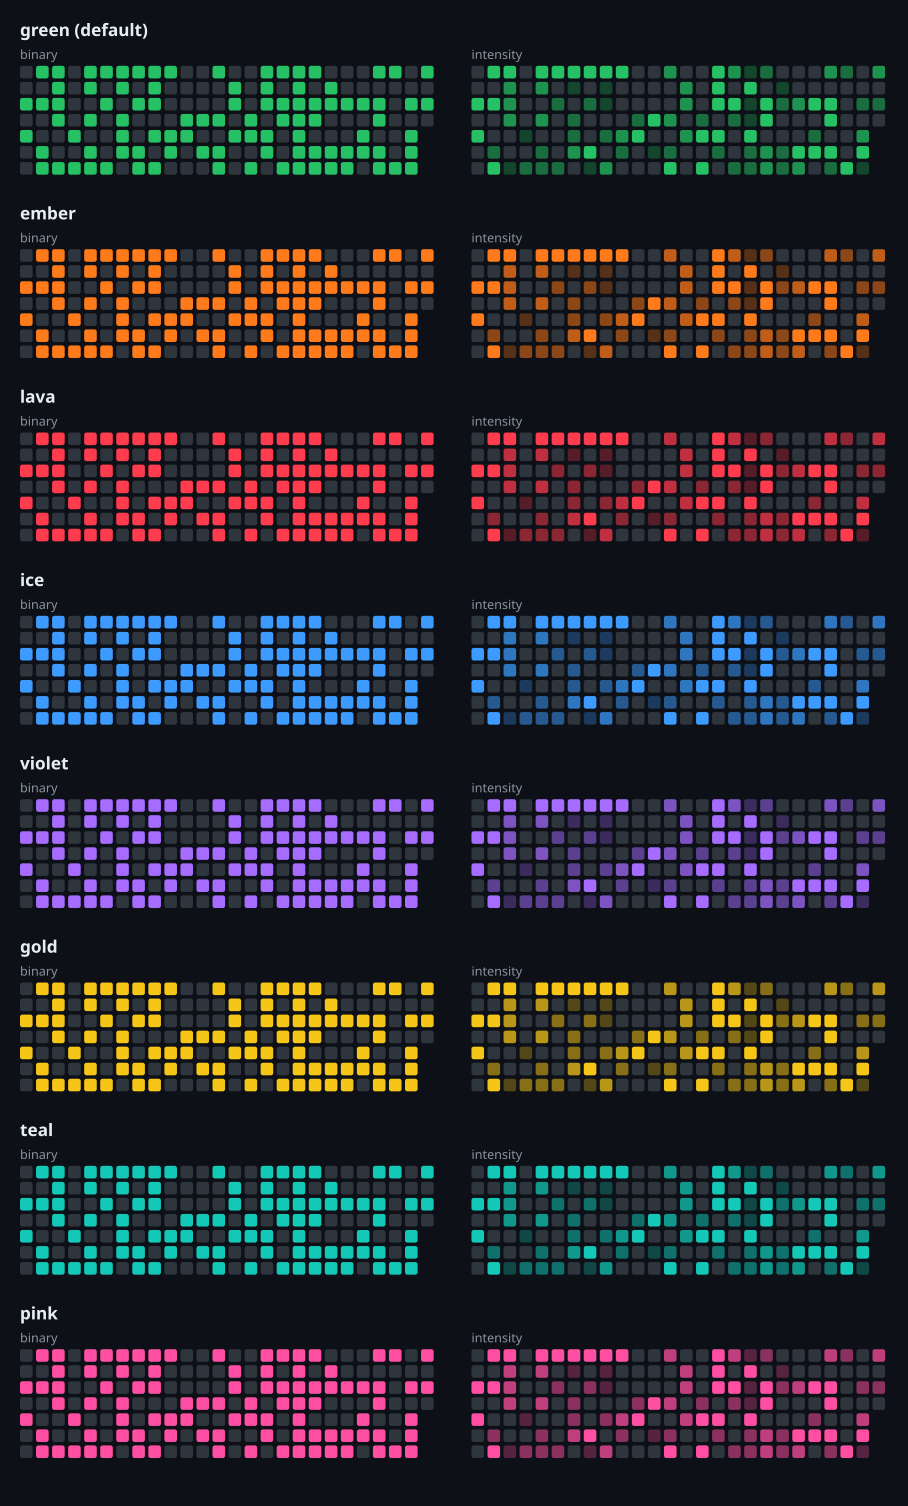
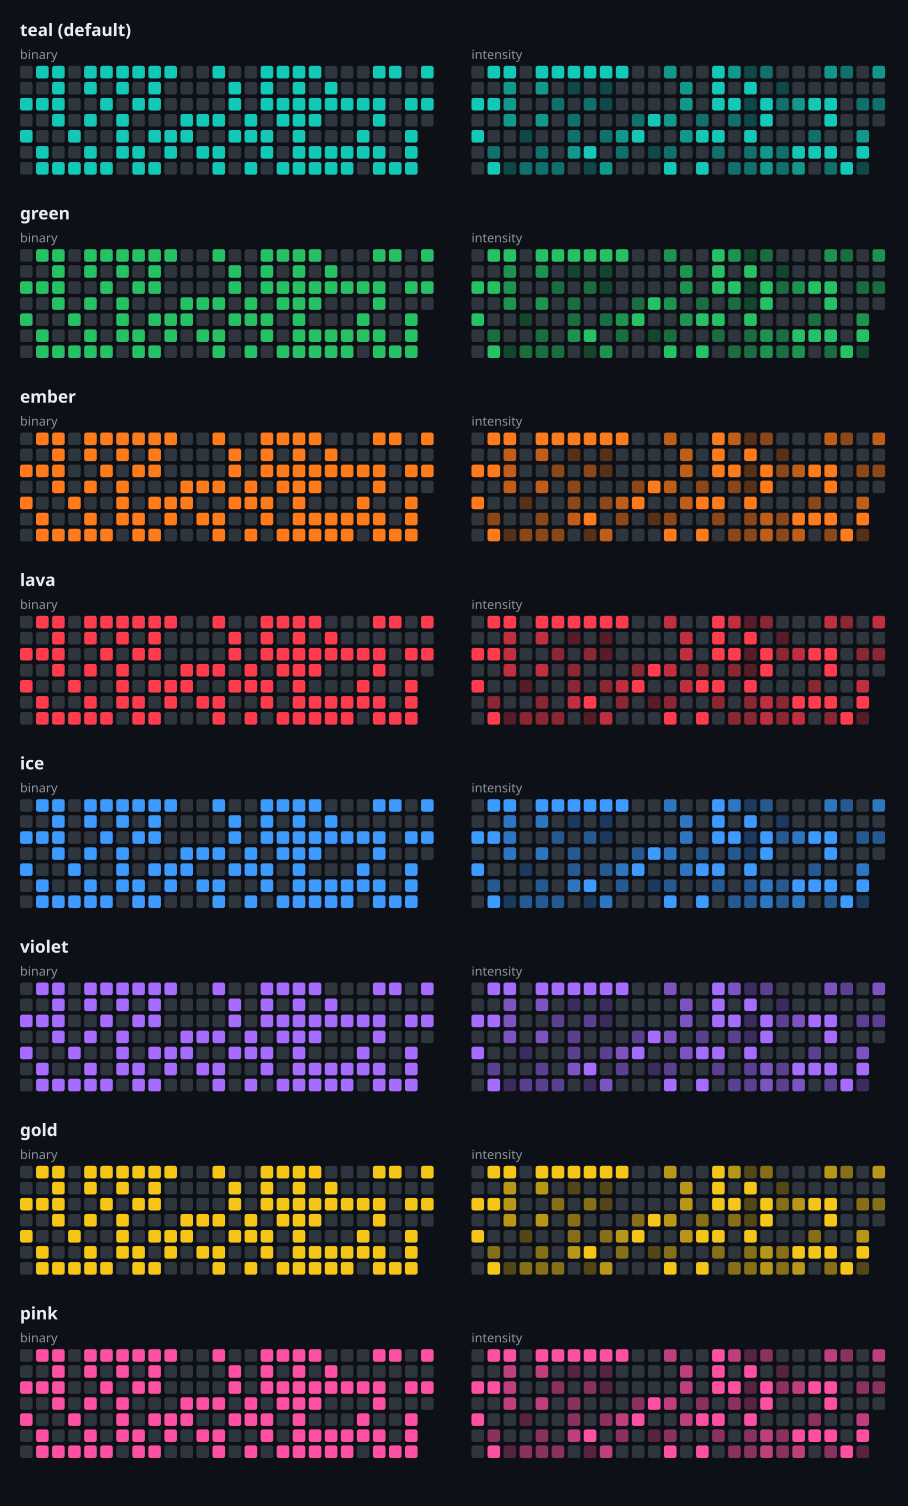
feat: teal is the default accent

diff --git a/widget/grindgrid.js b/widget/grindgrid.js
@@ -15,7 +15,7 @@ const DEFAULT_PARAM = "" // e.g. "http://192.0.2.10:8080;binary"
 
 const [base, themeArg, accentArg] = (args.widgetParameter || DEFAULT_PARAM).split(";").map(s => s.trim())
 const theme = ["binary", "intensity", "sports"].includes(themeArg) ? themeArg : "binary"
-const accent = ACCENTS[accentArg] || ACCENTS.green
+const accent = ACCENTS[accentArg] || ACCENTS.teal
 const family = config.widgetFamily || "medium"
 
 const fm = FileManager.local()

diff --git a/grindgrid/web.py b/grindgrid/web.py
@@ -16,6 +16,7 @@ THEMES = ("binary", "intensity", "sports")
 EMPTY = "#9aa4b140"
 ACCENTS = {"green": "#26c165", "ember": "#ff7a1a", "lava": "#ff3b4e", "ice": "#3d9bff",
            "violet": "#a66bff", "gold": "#f5c518", "teal": "#14c8b8", "pink": "#ff4fa3"}
+DEFAULT_ACCENT = "teal"
 ALPHA = ["4d", "85", "bb", ""]  # intensity = alpha ramp of the accent; reads right on light and dark
 SPORT_COLORS = {"run": "#ff6b3d", "ride": "#3d8bff", "strength": "#a35cff",
                 "swim": "#16c1c8", "walk": "#7cc35a", "other": "#e5b52b"}
@@ -24,7 +25,7 @@ LABELS = {"run": "bieganie", "ride": "rower", "strength": "siła", "swim": "pły
 CELL, GAP = 12, 3
 
 
-def day_color(day: dict, theme: str, accent: str = "green") -> str | None:
+def day_color(day: dict, theme: str, accent: str = DEFAULT_ACCENT) -> str | None:
     if day["future"]:
         return None
     if day["level"] == 0:
@@ -36,7 +37,7 @@ def day_color(day: dict, theme: str, accent: str = "green") -> str | None:
     return ACCENTS[accent]
 
 
-def render_svg(days: list[dict], theme: str, accent: str = "green") -> str:
+def render_svg(days: list[dict], theme: str, accent: str = DEFAULT_ACCENT) -> str:
     step = CELL + GAP
     weeks = (len(days) + 6) // 7
     cells = []
@@ -75,7 +76,7 @@ nav a{{margin-right:1rem;color:inherit}} nav a.on{{font-weight:700}}
 <p>{active} dni z treningiem w ostatnich 12 miesiącach</p></html>"""
 
 
-def page(days: list[dict], theme: str, accent: str = "green") -> str:
+def page(days: list[dict], theme: str, accent: str = DEFAULT_ACCENT) -> str:
     link = lambda t, a, label, on: f'<a href="/?theme={t}&accent={a}"{" class=on" if on else ""}>{label}</a>'
     nav = "".join(link(t, accent, t, t == theme) for t in THEMES)
     accents = "".join(link(theme, a, f'<i style="color:{c}">●</i> {a}', a == accent) for a, c in ACCENTS.items())
@@ -106,7 +107,7 @@ class Handler(BaseHTTPRequestHandler):
             days = app_days(db.connect(db_path()), os.environ.get("TZ", "Europe/Warsaw"))
             if url.path == "/":
                 theme = q.get("theme") if q.get("theme") in THEMES else "binary"
-                accent = q.get("accent") if q.get("accent") in ACCENTS else "green"
+                accent = q.get("accent") if q.get("accent") in ACCENTS else DEFAULT_ACCENT
                 return self.send(200, page(days, theme, accent))
             body = {"days": days, "generated": datetime.now(timezone.utc).isoformat()}
             return self.send(200, json.dumps(body), "application/json")

diff --git a/tests/test_web.py b/tests/test_web.py
@@ -79,9 +79,10 @@ class AccentPageTest(WebTest):
         self.assertIn(web.ACCENTS["ember"], body)
         self.assertNotIn('fill="' + web.ACCENTS["green"] + '"', body)  # grid cells, not the picker
 
-    def test_unknown_accent_falls_back_to_green(self):
+    def test_default_and_unknown_accent_are_teal(self):
         sync.main(["--demo"])
-        self.assertIn(web.ACCENTS["green"], self.get("/?accent=nope")[1])
+        for path in ("/", "/?accent=nope"):
+            self.assertIn('fill="' + web.ACCENTS["teal"] + '"', self.get(path)[1])
 
 
 if __name__ == "__main__":

diff --git a/README.md b/README.md
@@ -18,8 +18,8 @@ home-screen widget shows it at a glance.
 
 ### Accent colours
 
-`binary` and `intensity` come in eight accents: `green` (default), `ember`, `lava`, `ice`, `violet`,
-`gold`, `teal` and `pink`. In the browser use `/?theme=intensity&accent=ember`. In the widget add the
+`binary` and `intensity` come in eight accents: `teal` (default), `green`, `ember`, `lava`, `ice`,
+`violet`, `gold` and `pink`. In the browser use `/?theme=intensity&accent=ember`. In the widget add the
 accent as the third part of the parameter, for example `http://<server>:8080;intensity;ember`.
 
 ![accent colours](docs/screenshots/accents.png)
